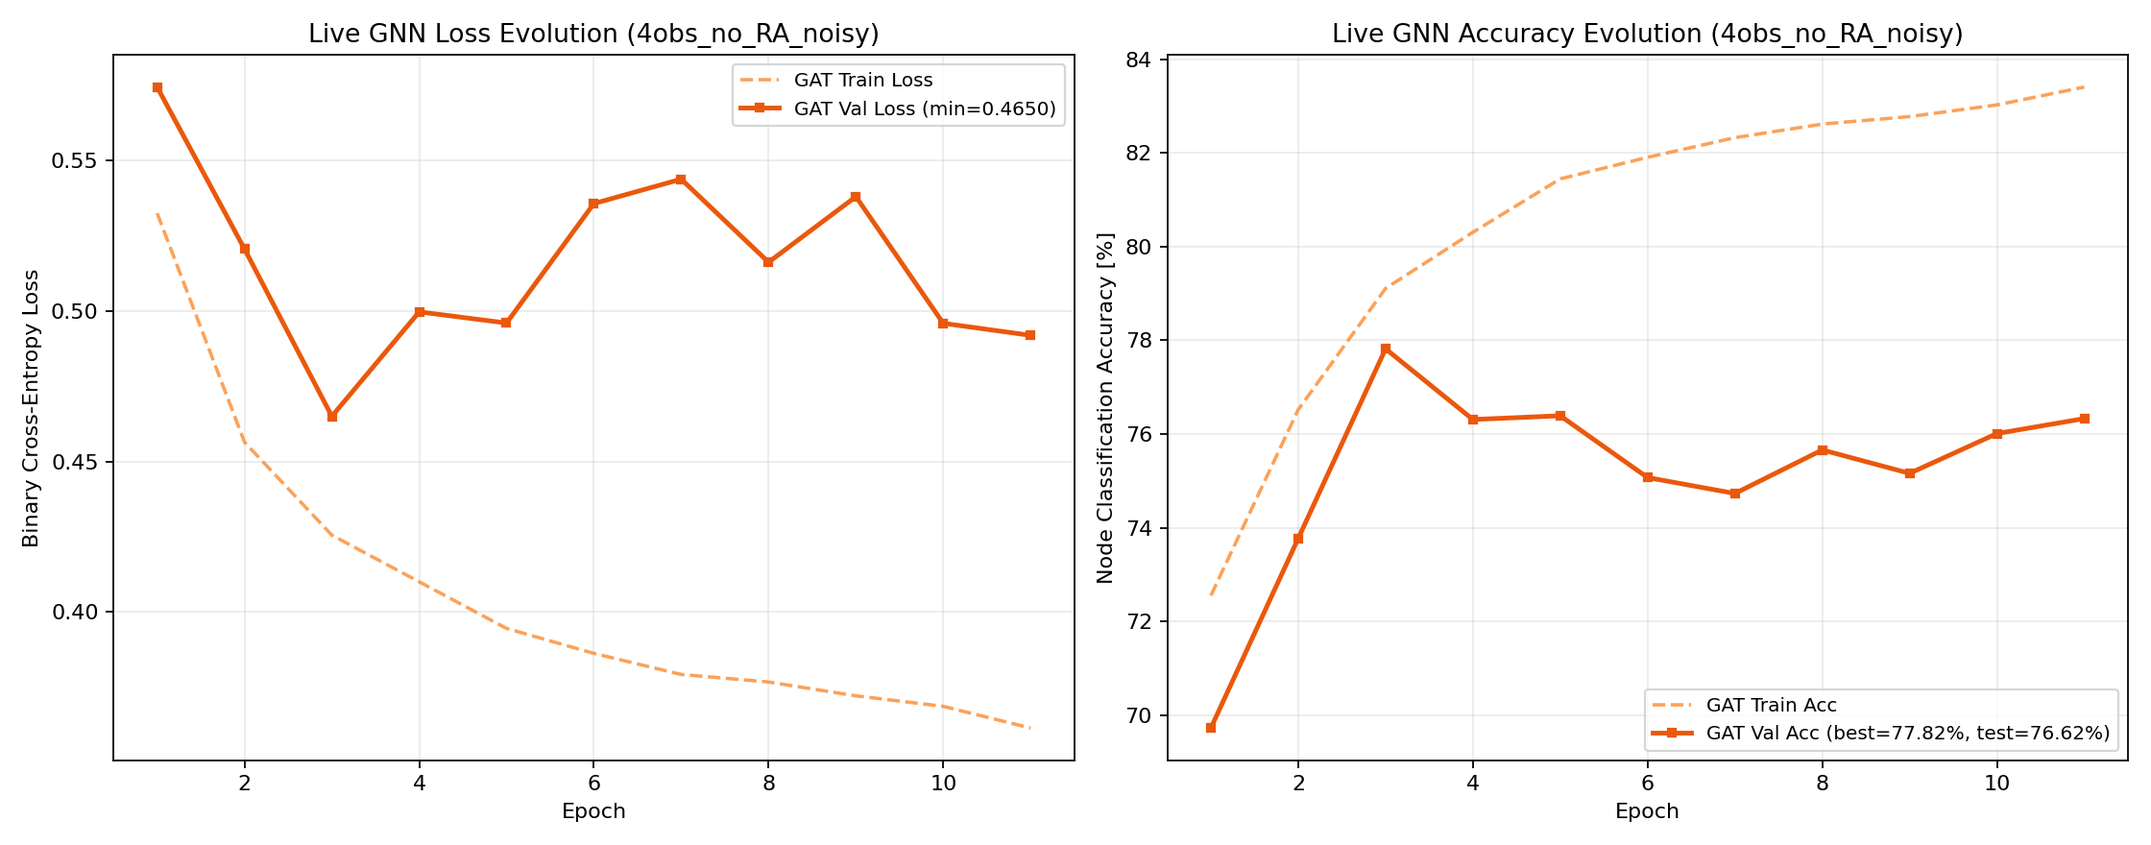
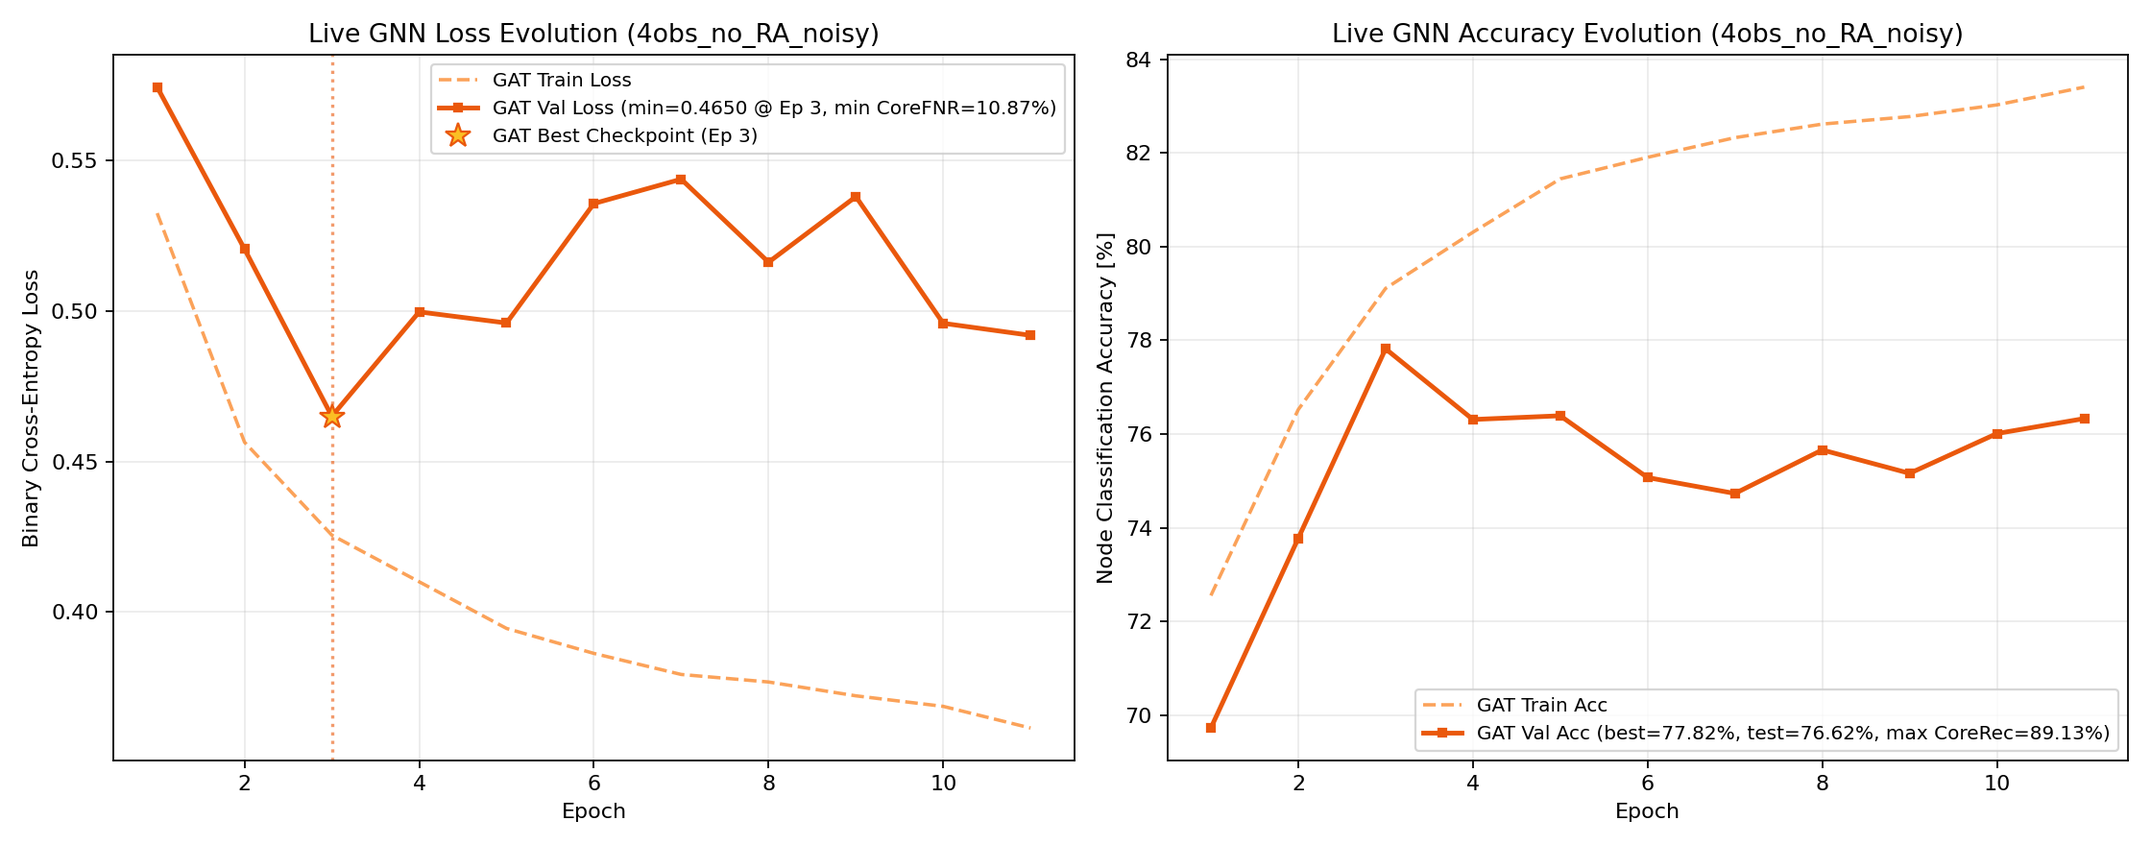
Update Study 2 live status and figures (2026-11-18 09:12)

Changed region(s): [[0.1875, 0.0614, 0.5, 0.1841], [0.6562, 0.7977, 0.9688, 0.8898]]

diff --git a/GNN-jed/trained_models/study2/index.html b/GNN-jed/trained_models/study2/index.html
@@ -229,7 +229,7 @@
   <header>
     <div class="header-top">
       <h1>Study 2 — Index des Entraînements & Analyses GNN (GAT vs GCN)</h1>
-      <span class="timestamp">Dernière mise à jour : 2026-11-18 05:34:41</span>
+      <span class="timestamp">Dernière mise à jour : 2026-11-18 09:12:57</span>
     </div>
     <div class="nav-tabs">
       <button class="tab-btn active" onclick="switchTab('tab-overview', this)">Vue Globale & Spectres RMT</button>
@@ -275,13 +275,13 @@
         <tbody>
           <tr><td><code>4obs_no_Dec_clean</code></td><td><span class='badge badge-gat'>GAT</span></td><td>20</td><td>0.1343</td><td>94.71%</td><td>0.1872</td><td>92.67%</td><td><strong>92.78%</strong></td><td>7.90% (val: 5.48%)</td><td><span class='status-done'>91.48%</span></td><td><strong>0.8828</strong></td></tr>
 <tr><td><code>4obs_no_Parallax_clean</code></td><td><span class='badge badge-gat'>GAT</span></td><td>20</td><td>0.1635</td><td>93.41%</td><td>0.2332</td><td>90.65%</td><td><strong>91.03%</strong></td><td>7.27% (val: 5.63%)</td><td><span class='status-done'>90.25%</span></td><td><strong>0.8689</strong></td></tr>
-<tr><td><code>4obs_no_Parallax_noisy</code></td><td><span class='badge badge-gat'>GAT</span></td><td>5</td><td>0.2652</td><td>88.08%</td><td>0.3997</td><td>82.47%</td><td><strong>82.47%</strong></td><td>9.07% (val min)</td><td><span class='status-live'>In progress</span></td><td><strong>-</strong></td></tr>
+<tr><td><code>4obs_no_Parallax_noisy</code></td><td><span class='badge badge-gat'>GAT</span></td><td>10</td><td>0.2546</td><td>88.64%</td><td>0.3961</td><td>82.64%</td><td><strong>82.64%</strong></td><td>7.78% (val min)</td><td><span class='status-live'>In progress</span></td><td><strong>-</strong></td></tr>
 <tr><td><code>4obs_no_RA_clean</code></td><td><span class='badge badge-gat'>GAT</span></td><td>20</td><td>0.1632</td><td>93.52%</td><td>0.2301</td><td>90.57%</td><td><strong>90.59%</strong></td><td>12.00% (val: 8.41%)</td><td><span class='status-done'>89.54%</span></td><td><strong>0.8543</strong></td></tr>
 <tr><td><code>4obs_no_RA_noisy</code></td><td><span class='badge badge-gat'>GAT</span></td><td>11</td><td>0.3614</td><td>83.41%</td><td>0.4919</td><td>76.33%</td><td><strong>77.82%</strong></td><td>44.35% (val: 10.87%)</td><td><span class='status-done'>76.62%</span></td><td><strong>0.6238</strong></td></tr>
 <tr><td><code>clean_5obs</code></td><td><span class='badge badge-gat'>GAT</span></td><td>20</td><td>0.1006</td><td>96.00%</td><td>0.1495</td><td>94.10%</td><td><strong>94.21%</strong></td><td>6.49% (val: 6.60%)</td><td><span class='status-done'>93.04%</span></td><td><strong>0.9035</strong></td></tr>
 <tr><td><code>clean_5obs</code></td><td><span class='badge badge-gcn'>GCN</span></td><td>25</td><td>0.1136</td><td>95.42%</td><td>0.1820</td><td>92.33%</td><td><strong>92.33%</strong></td><td>-</td><td><span class='status-done'>92.17%</span></td><td><strong>0.8886</strong></td></tr>
 <tr><td><code>noisy_5obs</code></td><td><span class='badge badge-gat'>GAT</span></td><td>20</td><td>0.2683</td><td>88.10%</td><td>0.4221</td><td>81.26%</td><td><strong>81.76%</strong></td><td>19.52% (val: 14.33%)</td><td><span class='status-done'>84.91%</span></td><td><strong>0.7879</strong></td></tr>
-<tr><td><code>4obs_no_Parallax_noisy</code></td><td><span class='badge badge-live'>GAT (In Flight)</span></td><td>Ep 05 (100%)</td><td>0.1883</td><td>-</td><td>-</td><td>-</td><td><strong>-</strong></td><td>-</td><td><span class='status-live'>In progress</span></td><td><strong>-</strong></td></tr>
+<tr><td><code>4obs_no_Parallax_noisy</code></td><td><span class='badge badge-live'>GAT (In Flight)</span></td><td>Ep 10 (100%)</td><td>0.3087</td><td>-</td><td>-</td><td>-</td><td><strong>-</strong></td><td>-</td><td><span class='status-live'>In progress</span></td><td><strong>-</strong></td></tr>
         </tbody>
       </table>
 
@@ -346,7 +346,7 @@
         </tbody>
       </table>
       <h2>État du Pipeline & Queue SLURM sur Jed</h2>
-      <pre class="status-box">[2026-11-18 05:34:39] Study 2 Pipeline Status on Jed
+      <pre class="status-box">[2026-11-18 09:12:55] Study 2 Pipeline Status on Jed
 - Step 1 (Plummer ICs): 81 / 81 ready
 - Step 2 (SWIFT Runs): 81 / 81 completed (101 snapshots)
 - Step 3 (Observables): Labels=81/81 | Clean=81/81 | GaiaNoisy=81/81
@@ -354,13 +354,13 @@
 - Step 5/6 Live GNN Training Progress:
   * 4obs_no_Dec_clean/training_metrics_gat_4obs_no_Dec_clean.log: Ep 020 | Train 0.1343 (94.71%) | Val 0.1872 (92.67%, Best=92.78%) | CoreFNR: 6.17% (min=5.48%) | Test=91.48%
   * 4obs_no_Parallax_clean/training_metrics_gat_4obs_no_Parallax_clean.log: Ep 020 | Train 0.1635 (93.41%) | Val 0.2332 (90.65%, Best=91.03%) | CoreFNR: 6.15% (min=5.63%) | Test=90.25%
-  * 4obs_no_Parallax_noisy/training_metrics_gat_4obs_no_Parallax_noisy.log: Ep 005 | Train 0.2652 (88.08%) | Val 0.3997 (82.47%, Best=82.47%) | CoreFNR: 10.27% (min=9.07%) | Test=In progress
+  * 4obs_no_Parallax_noisy/training_metrics_gat_4obs_no_Parallax_noisy.log: Ep 010 | Train 0.2546 (88.64%) | Val 0.3961 (82.64%, Best=82.64%) | CoreFNR: 13.08% (min=7.78%) | Test=In progress
   * 4obs_no_RA_clean/training_metrics_gat_4obs_no_RA_clean.log: Ep 020 | Train 0.1632 (93.52%) | Val 0.2301 (90.57%, Best=90.59%) | CoreFNR: 11.50% (min=8.41%) | Test=89.54%
   * 4obs_no_RA_noisy/training_metrics_gat_4obs_no_RA_noisy.log: Ep 011 | Train 0.3614 (83.41%) | Val 0.4919 (76.33%, Best=77.82%) | CoreFNR: 36.76% (min=10.87%) | Test=76.62%
   * clean_5obs/training_metrics_gat_clean.log: Ep 020 | Train 0.1006 (96.00%) | Val 0.1495 (94.10%, Best=94.21%) | CoreFNR: 6.64% (min=6.60%) | Test=93.04%
   * clean_5obs/training_metrics_gcn_clean.log: Ep 025 | Train 0.1136 (95.42%) | Val 0.1820 (92.33%, Best=92.33%) | Test=92.17%
   * noisy_5obs/training_metrics_gat_noisy.log: Ep 020 | Train 0.2683 (88.10%) | Val 0.4221 (81.26%, Best=81.76%) | CoreFNR: 23.60% (min=14.33%) | Test=84.91%
-  * [IN FLIGHT] 4obs_no_Parallax_noisy (GAT): Ep 005 | Batch 0103/0103 (100.0%) | Batch Loss 0.1883 | LR: 4.28e-04 | RAM: 113.1G
+  * [IN FLIGHT] 4obs_no_Parallax_noisy (GAT): Ep 010 | Batch 0103/0103 (100.0%) | Batch Loss 0.3087 | LR: 2.55e-04 | RAM: 113.1G
 - Saved Model Checkpoints (.pth): 8 mirrored in GNN-jed/trained_models/study2/weights/
 
 SLURM Queue:
@@ -371,7 +371,7 @@ JOBID  PARTITION                   NAME   ST       TIME  NODES NODELIST(REASON)
       41185010   academic Study2V2_Step4_BuildGr   PD       0:00      1 (Dependency)
 41185009_[0-80   academic Study2V2_Step3_Extract   PD       0:00      1 (Dependency)
       41146836   academic Study2_Step7_GCNStocha   PD       0:00      2 (Dependency)
-    41146835_2   academic      Study2_Step6_4Obs    R   17:56:10      2 jst[282,294]</pre>
+    41146835_2   academic      Study2_Step6_4Obs    R   21:31:22      2 jst[282,294]</pre>
     </section>
   </main>
 

diff --git a/index.html b/index.html
@@ -229,7 +229,7 @@
   <header>
     <div class="header-top">
       <h1>Study 2 — Index des Entraînements & Analyses GNN (GAT vs GCN)</h1>
-      <span class="timestamp">Dernière mise à jour : 2026-11-18 05:34:41</span>
+      <span class="timestamp">Dernière mise à jour : 2026-11-18 09:12:57</span>
     </div>
     <div class="nav-tabs">
       <button class="tab-btn active" onclick="switchTab('tab-overview', this)">Vue Globale & Spectres RMT</button>
@@ -275,13 +275,13 @@
         <tbody>
           <tr><td><code>4obs_no_Dec_clean</code></td><td><span class='badge badge-gat'>GAT</span></td><td>20</td><td>0.1343</td><td>94.71%</td><td>0.1872</td><td>92.67%</td><td><strong>92.78%</strong></td><td>7.90% (val: 5.48%)</td><td><span class='status-done'>91.48%</span></td><td><strong>0.8828</strong></td></tr>
 <tr><td><code>4obs_no_Parallax_clean</code></td><td><span class='badge badge-gat'>GAT</span></td><td>20</td><td>0.1635</td><td>93.41%</td><td>0.2332</td><td>90.65%</td><td><strong>91.03%</strong></td><td>7.27% (val: 5.63%)</td><td><span class='status-done'>90.25%</span></td><td><strong>0.8689</strong></td></tr>
-<tr><td><code>4obs_no_Parallax_noisy</code></td><td><span class='badge badge-gat'>GAT</span></td><td>5</td><td>0.2652</td><td>88.08%</td><td>0.3997</td><td>82.47%</td><td><strong>82.47%</strong></td><td>9.07% (val min)</td><td><span class='status-live'>In progress</span></td><td><strong>-</strong></td></tr>
+<tr><td><code>4obs_no_Parallax_noisy</code></td><td><span class='badge badge-gat'>GAT</span></td><td>10</td><td>0.2546</td><td>88.64%</td><td>0.3961</td><td>82.64%</td><td><strong>82.64%</strong></td><td>7.78% (val min)</td><td><span class='status-live'>In progress</span></td><td><strong>-</strong></td></tr>
 <tr><td><code>4obs_no_RA_clean</code></td><td><span class='badge badge-gat'>GAT</span></td><td>20</td><td>0.1632</td><td>93.52%</td><td>0.2301</td><td>90.57%</td><td><strong>90.59%</strong></td><td>12.00% (val: 8.41%)</td><td><span class='status-done'>89.54%</span></td><td><strong>0.8543</strong></td></tr>
 <tr><td><code>4obs_no_RA_noisy</code></td><td><span class='badge badge-gat'>GAT</span></td><td>11</td><td>0.3614</td><td>83.41%</td><td>0.4919</td><td>76.33%</td><td><strong>77.82%</strong></td><td>44.35% (val: 10.87%)</td><td><span class='status-done'>76.62%</span></td><td><strong>0.6238</strong></td></tr>
 <tr><td><code>clean_5obs</code></td><td><span class='badge badge-gat'>GAT</span></td><td>20</td><td>0.1006</td><td>96.00%</td><td>0.1495</td><td>94.10%</td><td><strong>94.21%</strong></td><td>6.49% (val: 6.60%)</td><td><span class='status-done'>93.04%</span></td><td><strong>0.9035</strong></td></tr>
 <tr><td><code>clean_5obs</code></td><td><span class='badge badge-gcn'>GCN</span></td><td>25</td><td>0.1136</td><td>95.42%</td><td>0.1820</td><td>92.33%</td><td><strong>92.33%</strong></td><td>-</td><td><span class='status-done'>92.17%</span></td><td><strong>0.8886</strong></td></tr>
 <tr><td><code>noisy_5obs</code></td><td><span class='badge badge-gat'>GAT</span></td><td>20</td><td>0.2683</td><td>88.10%</td><td>0.4221</td><td>81.26%</td><td><strong>81.76%</strong></td><td>19.52% (val: 14.33%)</td><td><span class='status-done'>84.91%</span></td><td><strong>0.7879</strong></td></tr>
-<tr><td><code>4obs_no_Parallax_noisy</code></td><td><span class='badge badge-live'>GAT (In Flight)</span></td><td>Ep 05 (100%)</td><td>0.1883</td><td>-</td><td>-</td><td>-</td><td><strong>-</strong></td><td>-</td><td><span class='status-live'>In progress</span></td><td><strong>-</strong></td></tr>
+<tr><td><code>4obs_no_Parallax_noisy</code></td><td><span class='badge badge-live'>GAT (In Flight)</span></td><td>Ep 10 (100%)</td><td>0.3087</td><td>-</td><td>-</td><td>-</td><td><strong>-</strong></td><td>-</td><td><span class='status-live'>In progress</span></td><td><strong>-</strong></td></tr>
         </tbody>
       </table>
 
@@ -346,7 +346,7 @@
         </tbody>
       </table>
       <h2>État du Pipeline & Queue SLURM sur Jed</h2>
-      <pre class="status-box">[2026-11-18 05:34:39] Study 2 Pipeline Status on Jed
+      <pre class="status-box">[2026-11-18 09:12:55] Study 2 Pipeline Status on Jed
 - Step 1 (Plummer ICs): 81 / 81 ready
 - Step 2 (SWIFT Runs): 81 / 81 completed (101 snapshots)
 - Step 3 (Observables): Labels=81/81 | Clean=81/81 | GaiaNoisy=81/81
@@ -354,13 +354,13 @@
 - Step 5/6 Live GNN Training Progress:
   * 4obs_no_Dec_clean/training_metrics_gat_4obs_no_Dec_clean.log: Ep 020 | Train 0.1343 (94.71%) | Val 0.1872 (92.67%, Best=92.78%) | CoreFNR: 6.17% (min=5.48%) | Test=91.48%
   * 4obs_no_Parallax_clean/training_metrics_gat_4obs_no_Parallax_clean.log: Ep 020 | Train 0.1635 (93.41%) | Val 0.2332 (90.65%, Best=91.03%) | CoreFNR: 6.15% (min=5.63%) | Test=90.25%
-  * 4obs_no_Parallax_noisy/training_metrics_gat_4obs_no_Parallax_noisy.log: Ep 005 | Train 0.2652 (88.08%) | Val 0.3997 (82.47%, Best=82.47%) | CoreFNR: 10.27% (min=9.07%) | Test=In progress
+  * 4obs_no_Parallax_noisy/training_metrics_gat_4obs_no_Parallax_noisy.log: Ep 010 | Train 0.2546 (88.64%) | Val 0.3961 (82.64%, Best=82.64%) | CoreFNR: 13.08% (min=7.78%) | Test=In progress
   * 4obs_no_RA_clean/training_metrics_gat_4obs_no_RA_clean.log: Ep 020 | Train 0.1632 (93.52%) | Val 0.2301 (90.57%, Best=90.59%) | CoreFNR: 11.50% (min=8.41%) | Test=89.54%
   * 4obs_no_RA_noisy/training_metrics_gat_4obs_no_RA_noisy.log: Ep 011 | Train 0.3614 (83.41%) | Val 0.4919 (76.33%, Best=77.82%) | CoreFNR: 36.76% (min=10.87%) | Test=76.62%
   * clean_5obs/training_metrics_gat_clean.log: Ep 020 | Train 0.1006 (96.00%) | Val 0.1495 (94.10%, Best=94.21%) | CoreFNR: 6.64% (min=6.60%) | Test=93.04%
   * clean_5obs/training_metrics_gcn_clean.log: Ep 025 | Train 0.1136 (95.42%) | Val 0.1820 (92.33%, Best=92.33%) | Test=92.17%
   * noisy_5obs/training_metrics_gat_noisy.log: Ep 020 | Train 0.2683 (88.10%) | Val 0.4221 (81.26%, Best=81.76%) | CoreFNR: 23.60% (min=14.33%) | Test=84.91%
-  * [IN FLIGHT] 4obs_no_Parallax_noisy (GAT): Ep 005 | Batch 0103/0103 (100.0%) | Batch Loss 0.1883 | LR: 4.28e-04 | RAM: 113.1G
+  * [IN FLIGHT] 4obs_no_Parallax_noisy (GAT): Ep 010 | Batch 0103/0103 (100.0%) | Batch Loss 0.3087 | LR: 2.55e-04 | RAM: 113.1G
 - Saved Model Checkpoints (.pth): 8 mirrored in GNN-jed/trained_models/study2/weights/
 
 SLURM Queue:
@@ -371,7 +371,7 @@ JOBID  PARTITION                   NAME   ST       TIME  NODES NODELIST(REASON)
       41185010   academic Study2V2_Step4_BuildGr   PD       0:00      1 (Dependency)
 41185009_[0-80   academic Study2V2_Step3_Extract   PD       0:00      1 (Dependency)
       41146836   academic Study2_Step7_GCNStocha   PD       0:00      2 (Dependency)
-    41146835_2   academic      Study2_Step6_4Obs    R   17:56:10      2 jst[282,294]</pre>
+    41146835_2   academic      Study2_Step6_4Obs    R   21:31:22      2 jst[282,294]</pre>
     </section>
   </main>
 

diff --git a/LIVE_STATUS.md b/LIVE_STATUS.md
@@ -1,20 +1,22 @@
 # Live Pipeline Status on Jed
 
 ```text
-[2026-11-18 09:12:46] Study 2 Pipeline Status on Jed
+[2026-11-18 09:12:55] Study 2 Pipeline Status on Jed
 - Step 1 (Plummer ICs): 81 / 81 ready
 - Step 2 (SWIFT Runs): 81 / 81 completed (101 snapshots)
 - Step 3 (Observables): Labels=81/81 | Clean=81/81 | GaiaNoisy=81/81
 - Step 4 (5D Graphs): Clean=81/81 | GaiaNoisy=81/81
 - Step 5/6 Live GNN Training Progress:
-  * 4obs_no_Dec_clean/training_metrics_gat_4obs_no_Dec_clean.log: Ep 020 | Train 0.1343 (94.71%) | Val 0.1872 (92.67%, Best=92.78%) | Test=91.48%
-  * 4obs_no_Parallax_clean/training_metrics_gat_4obs_no_Parallax_clean.log: Ep 020 | Train 0.1635 (93.41%) | Val 0.2332 (90.65%, Best=91.03%) | Test=90.25%
-  * 4obs_no_Parallax_noisy/training_metrics_gat_4obs_no_Parallax_noisy.log: Ep 010 | Train 0.2546 (88.64%) | Val 0.3961 (82.64%, Best=82.64%) | Test=In progress
-  * 4obs_no_RA_clean/training_metrics_gat_4obs_no_RA_clean.log: Ep 020 | Train 0.1632 (93.52%) | Val 0.2301 (90.57%, Best=90.59%) | Test=89.54%
-  * 4obs_no_RA_noisy/training_metrics_gat_4obs_no_RA_noisy.log: Ep 011 | Train 0.3614 (83.41%) | Val 0.4919 (76.33%, Best=77.82%) | Test=76.62%
-  * clean_5obs/training_metrics_gat_clean.log: Ep 020 | Train 0.1006 (96.00%) | Val 0.1495 (94.10%, Best=94.21%) | Test=93.04%
+  * 4obs_no_Dec_clean/training_metrics_gat_4obs_no_Dec_clean.log: Ep 020 | Train 0.1343 (94.71%) | Val 0.1872 (92.67%, Best=92.78%) | CoreFNR: 6.17% (min=5.48%) | Test=91.48%
+  * 4obs_no_Parallax_clean/training_metrics_gat_4obs_no_Parallax_clean.log: Ep 020 | Train 0.1635 (93.41%) | Val 0.2332 (90.65%, Best=91.03%) | CoreFNR: 6.15% (min=5.63%) | Test=90.25%
+  * 4obs_no_Parallax_noisy/training_metrics_gat_4obs_no_Parallax_noisy.log: Ep 010 | Train 0.2546 (88.64%) | Val 0.3961 (82.64%, Best=82.64%) | CoreFNR: 13.08% (min=7.78%) | Test=In progress
+  * 4obs_no_RA_clean/training_metrics_gat_4obs_no_RA_clean.log: Ep 020 | Train 0.1632 (93.52%) | Val 0.2301 (90.57%, Best=90.59%) | CoreFNR: 11.50% (min=8.41%) | Test=89.54%
+  * 4obs_no_RA_noisy/training_metrics_gat_4obs_no_RA_noisy.log: Ep 011 | Train 0.3614 (83.41%) | Val 0.4919 (76.33%, Best=77.82%) | CoreFNR: 36.76% (min=10.87%) | Test=76.62%
+  * clean_5obs/training_metrics_gat_clean.log: Ep 020 | Train 0.1006 (96.00%) | Val 0.1495 (94.10%, Best=94.21%) | CoreFNR: 6.64% (min=6.60%) | Test=93.04%
   * clean_5obs/training_metrics_gcn_clean.log: Ep 025 | Train 0.1136 (95.42%) | Val 0.1820 (92.33%, Best=92.33%) | Test=92.17%
-  * noisy_5obs/training_metrics_gat_noisy.log: Ep 020 | Train 0.2683 (88.10%) | Val 0.4221 (81.26%, Best=81.76%) | Test=84.91%
+  * noisy_5obs/training_metrics_gat_noisy.log: Ep 020 | Train 0.2683 (88.10%) | Val 0.4221 (81.26%, Best=81.76%) | CoreFNR: 23.60% (min=14.33%) | Test=84.91%
+  * [IN FLIGHT] 4obs_no_Parallax_noisy (GAT): Ep 010 | Batch 0103/0103 (100.0%) | Batch Loss 0.3087 | LR: 2.55e-04 | RAM: 113.1G
+- Saved Model Checkpoints (.pth): 8 mirrored in GNN-jed/trained_models/study2/weights/
 
 SLURM Queue:
 JOBID  PARTITION                   NAME   ST       TIME  NODES NODELIST(REASON)
@@ -24,22 +26,60 @@ JOBID  PARTITION                   NAME   ST       TIME  NODES NODELIST(REASON)
       41185010   academic Study2V2_Step4_BuildGr   PD       0:00      1 (Dependency)
 41185009_[0-80   academic Study2V2_Step3_Extract   PD       0:00      1 (Dependency)
       41146836   academic Study2_Step7_GCNStocha   PD       0:00      2 (Dependency)
-    41146835_2   academic      Study2_Step6_4Obs    R   21:35:47      2 jst[282,294]
+    41146835_2   academic      Study2_Step6_4Obs    R   21:31:22      2 jst[282,294]
 ```
 
 ## Live Neural Network Training Metrics
 
-| Experiment | Architecture | Latest Epoch | Train Loss | Train Acc | Val Loss | Val Acc | Best Val Acc | Test Acc | Test F1 |
-| :--- | :---: | :---: | :---: | :---: | :---: | :---: | :---: | :---: | :---: |
-| `4obs_no_Dec_clean` | **GAT** | 20 | 0.1343 | 94.71% | 0.1872 | 92.67% | **92.78%** | **91.48%** | 0.8828 |
-| `4obs_no_Parallax_clean` | **GAT** | 20 | 0.1635 | 93.41% | 0.2332 | 90.65% | **91.03%** | **90.25%** | 0.8689 |
-| `4obs_no_Parallax_noisy` | **GAT** | 10 | 0.2546 | 88.64% | 0.3961 | 82.64% | **82.64%** | **In progress** | - |
-| `4obs_no_RA_clean` | **GAT** | 20 | 0.1632 | 93.52% | 0.2301 | 90.57% | **90.59%** | **89.54%** | 0.8543 |
-| `4obs_no_RA_noisy` | **GAT** | 11 | 0.3614 | 83.41% | 0.4919 | 76.33% | **77.82%** | **76.62%** | 0.6238 |
-| `clean_5obs` | **GAT** | 20 | 0.1006 | 96.00% | 0.1495 | 94.10% | **94.21%** | **93.04%** | 0.9035 |
-| `clean_5obs` | **GCN** | 25 | 0.1136 | 95.42% | 0.1820 | 92.33% | **92.33%** | **92.17%** | 0.8886 |
-| `noisy_5obs` | **GAT** | 20 | 0.2683 | 88.10% | 0.4221 | 81.26% | **81.76%** | **84.91%** | 0.7879 |
+| Experiment | Architecture | Latest Epoch | Train Loss | Train Acc | Val Loss | Val Acc | Best Val Acc | Core FNR | Test Acc | Test F1 |
+| :--- | :---: | :---: | :---: | :---: | :---: | :---: | :---: | :---: | :---: | :---: |
+| `4obs_no_Dec_clean` | **GAT** | 20 | 0.1343 | 94.71% | 0.1872 | 92.67% | **92.78%** | 7.90% (val: 5.48%) | **91.48%** | 0.8828 |
+| `4obs_no_Parallax_clean` | **GAT** | 20 | 0.1635 | 93.41% | 0.2332 | 90.65% | **91.03%** | 7.27% (val: 5.63%) | **90.25%** | 0.8689 |
+| `4obs_no_Parallax_noisy` | **GAT** | 10 | 0.2546 | 88.64% | 0.3961 | 82.64% | **82.64%** | 7.78% (val min) | **In progress** | - |
+| `4obs_no_RA_clean` | **GAT** | 20 | 0.1632 | 93.52% | 0.2301 | 90.57% | **90.59%** | 12.00% (val: 8.41%) | **89.54%** | 0.8543 |
+| `4obs_no_RA_noisy` | **GAT** | 11 | 0.3614 | 83.41% | 0.4919 | 76.33% | **77.82%** | 44.35% (val: 10.87%) | **76.62%** | 0.6238 |
+| `clean_5obs` | **GAT** | 20 | 0.1006 | 96.00% | 0.1495 | 94.10% | **94.21%** | 6.49% (val: 6.60%) | **93.04%** | 0.9035 |
+| `clean_5obs` | **GCN** | 25 | 0.1136 | 95.42% | 0.1820 | 92.33% | **92.33%** | - | **92.17%** | 0.8886 |
+| `noisy_5obs` | **GAT** | 20 | 0.2683 | 88.10% | 0.4221 | 81.26% | **81.76%** | 19.52% (val: 14.33%) | **84.91%** | 0.7879 |
+| `4obs_no_Parallax_noisy` | **GAT (In Flight)** | Ep 10 (100%) | 0.3087 | - | - | - | - | - | **In progress** | - |
+
+## Saved Model Weights (`.pth` Checkpoints)
+
+| Checkpoint | Size | Experiment Path | Central Archive Mirror |
+| :--- | :---: | :--- | :--- |
+| `best_gat_4obs_no_Dec_clean.pth` | 358.0 KB | `GNN-jed/trained_models/study2/4obs_no_Dec_clean/best_gat_4obs_no_Dec_clean.pth` | `GNN-jed/trained_models/study2/weights/best_gat_4obs_no_Dec_clean.pth` |
+| `best_gat_4obs_no_Parallax_clean.pth` | 358.1 KB | `GNN-jed/trained_models/study2/4obs_no_Parallax_clean/best_gat_4obs_no_Parallax_clean.pth` | `GNN-jed/trained_models/study2/weights/best_gat_4obs_no_Parallax_clean.pth` |
+| `best_gat_4obs_no_Parallax_noisy.pth` | 358.1 KB | `GNN-jed/trained_models/study2/4obs_no_Parallax_noisy/best_gat_4obs_no_Parallax_noisy.pth` | `GNN-jed/trained_models/study2/weights/best_gat_4obs_no_Parallax_noisy.pth` |
+| `best_gat_4obs_no_RA_clean.pth` | 357.9 KB | `GNN-jed/trained_models/study2/4obs_no_RA_clean/best_gat_4obs_no_RA_clean.pth` | `GNN-jed/trained_models/study2/weights/best_gat_4obs_no_RA_clean.pth` |
+| `best_gat_4obs_no_RA_noisy.pth` | 357.9 KB | `GNN-jed/trained_models/study2/4obs_no_RA_noisy/best_gat_4obs_no_RA_noisy.pth` | `GNN-jed/trained_models/study2/weights/best_gat_4obs_no_RA_noisy.pth` |
+| `best_gat_clean.pth` | 361.2 KB | `GNN-jed/trained_models/study2/clean_5obs/best_gat_clean.pth` | `GNN-jed/trained_models/study2/weights/best_gat_clean.pth` |
+| `best_gcn_clean.pth` | 120.0 KB | `GNN-jed/trained_models/study2/clean_5obs/best_gcn_clean.pth` | `GNN-jed/trained_models/study2/weights/best_gcn_clean.pth` |
+| `best_gat_noisy.pth` | 361.2 KB | `GNN-jed/trained_models/study2/noisy_5obs/best_gat_noisy.pth` | `GNN-jed/trained_models/study2/weights/best_gat_noisy.pth` |
 
 ## Real-Time GNN Learning Curves (Loss & Accuracy Evolution)
 
 ![Live GNN Training Curves](GNN-jed/trained_models/study2/latest_live_training.png)
+
+## RMT Singular Value Candle Spectra (Marchenko-Pastur Bulk vs Detached Signal)
+
+### `4obs_no_Dec_clean`
+![RMT Candle Spectrum 4obs_no_Dec_clean](GNN-jed/trained_models/study2/4obs_no_Dec_clean/spectral_analysis_GNN_4obs_no_Dec_clean.png)
+
+### `4obs_no_Parallax_clean`
+![RMT Candle Spectrum 4obs_no_Parallax_clean](GNN-jed/trained_models/study2/4obs_no_Parallax_clean/spectral_analysis_GNN_4obs_no_Parallax_clean.png)
+
+### `4obs_no_Parallax_noisy`
+![RMT Candle Spectrum 4obs_no_Parallax_noisy](GNN-jed/trained_models/study2/4obs_no_Parallax_noisy/spectral_analysis_GNN_4obs_no_Parallax_noisy.png)
+
+### `4obs_no_RA_clean`
+![RMT Candle Spectrum 4obs_no_RA_clean](GNN-jed/trained_models/study2/4obs_no_RA_clean/spectral_analysis_GNN_4obs_no_RA_clean.png)
+
+### `4obs_no_RA_noisy`
+![RMT Candle Spectrum 4obs_no_RA_noisy](GNN-jed/trained_models/study2/4obs_no_RA_noisy/spectral_analysis_GNN_4obs_no_RA_noisy.png)
+
+### `clean_5obs`
+![RMT Candle Spectrum clean_5obs](GNN-jed/trained_models/study2/clean_5obs/spectral_analysis_GNN_clean_5obs.png)
+
+### `noisy_5obs`
+![RMT Candle Spectrum noisy_5obs](GNN-jed/trained_models/study2/noisy_5obs/spectral_analysis_GNN_noisy_5obs.png)
+
